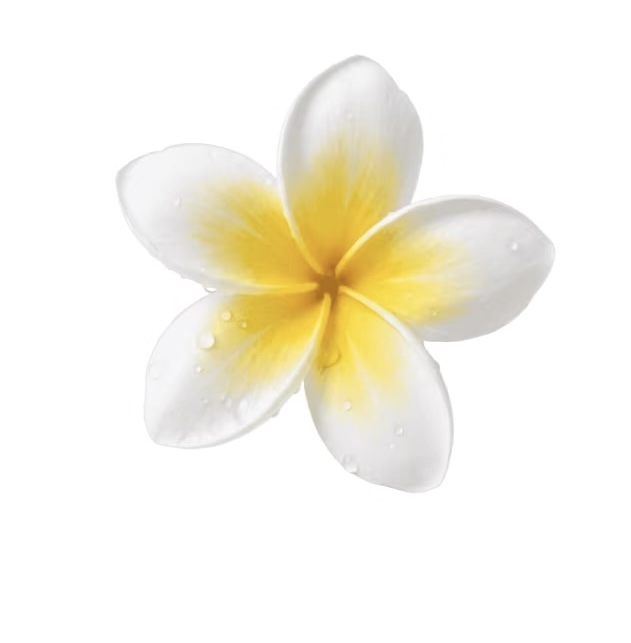
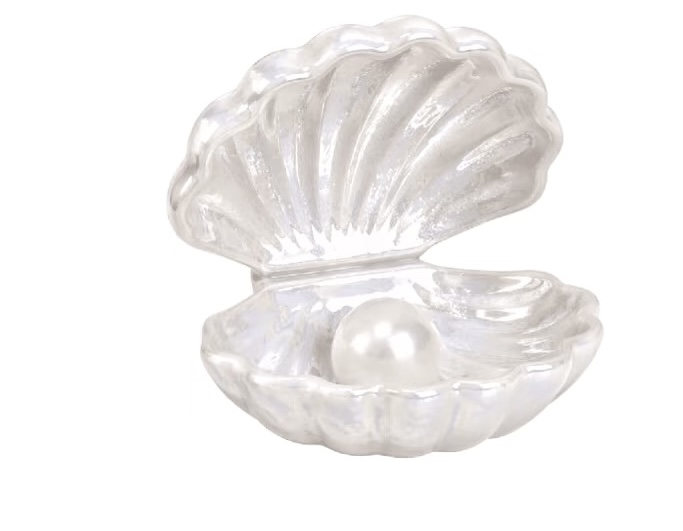
Add 6 floating images around hero text with no borders

diff --git a/index.html b/index.html
@@ -365,6 +365,24 @@
 <!-- 開場 -->
 <section class="hero">
   <div class="hero-stage" id="heroStage">
+    <div class="float-card" data-float='{"dx":18,"dy":-14,"rot":4,"dur":16,"delay":0.2}' style="width:clamp(70px,10vw,130px);top:-8%;left:-18%;border:none;background:none;box-shadow:none;border-radius:0;overflow:visible">
+      <img src="assets/float-01.jpg" alt="" style="border:none;outline:none;border-radius:0;object-fit:contain;display:block;width:100%;height:auto">
+    </div>
+    <div class="float-card" data-float='{"dx":-15,"dy":12,"rot":-5,"dur":18,"delay":0.5}' style="width:clamp(80px,11vw,140px);top:-12%;right:-16%;border:none;background:none;box-shadow:none;border-radius:0;overflow:visible">
+      <img src="assets/float-02.jpg" alt="" style="border:none;outline:none;border-radius:0;object-fit:contain;display:block;width:100%;height:auto">
+    </div>
+    <div class="float-card" data-float='{"dx":22,"dy":10,"rot":3,"dur":20,"delay":0.8}' style="width:clamp(75px,10vw,135px);top:35%;left:-22%;border:none;background:none;box-shadow:none;border-radius:0;overflow:visible">
+      <img src="assets/float-03.jpg" alt="" style="border:none;outline:none;border-radius:0;object-fit:contain;display:block;width:100%;height:auto">
+    </div>
+    <div class="float-card" data-float='{"dx":-20,"dy":-16,"rot":-4,"dur":17,"delay":1.1}' style="width:clamp(80px,11vw,145px);top:38%;right:-22%;border:none;background:none;box-shadow:none;border-radius:0;overflow:visible">
+      <img src="assets/float-04.jpg" alt="" style="border:none;outline:none;border-radius:0;object-fit:contain;display:block;width:100%;height:auto">
+    </div>
+    <div class="float-card" data-float='{"dx":14,"dy":18,"rot":5,"dur":19,"delay":1.4}' style="width:clamp(70px,9vw,120px);bottom:-8%;left:-14%;border:none;background:none;box-shadow:none;border-radius:0;overflow:visible">
+      <img src="assets/float-05.jpg" alt="" style="border:none;outline:none;border-radius:0;object-fit:contain;display:block;width:100%;height:auto">
+    </div>
+    <div class="float-card" data-float='{"dx":-16,"dy":-12,"rot":-3,"dur":21,"delay":1.7}' style="width:clamp(75px,10vw,130px);bottom:-6%;right:-14%;border:none;background:none;box-shadow:none;border-radius:0;overflow:visible">
+      <img src="assets/float-06.jpg" alt="" style="border:none;outline:none;border-radius:0;object-fit:contain;display:block;width:100%;height:auto">
+    </div>
     <div class="hero-text">
       <h1>I <em style="font-weight: bold;">cut</em>.<br>I <em style="font-weight: bold;">create</em>.<br>I make things <em style="font-weight: bold;">move</em>.</h1>
       <div class="sub" style="font-weight: bold; font-size: 20px;">&nbsp;Tenny Lu</div>
